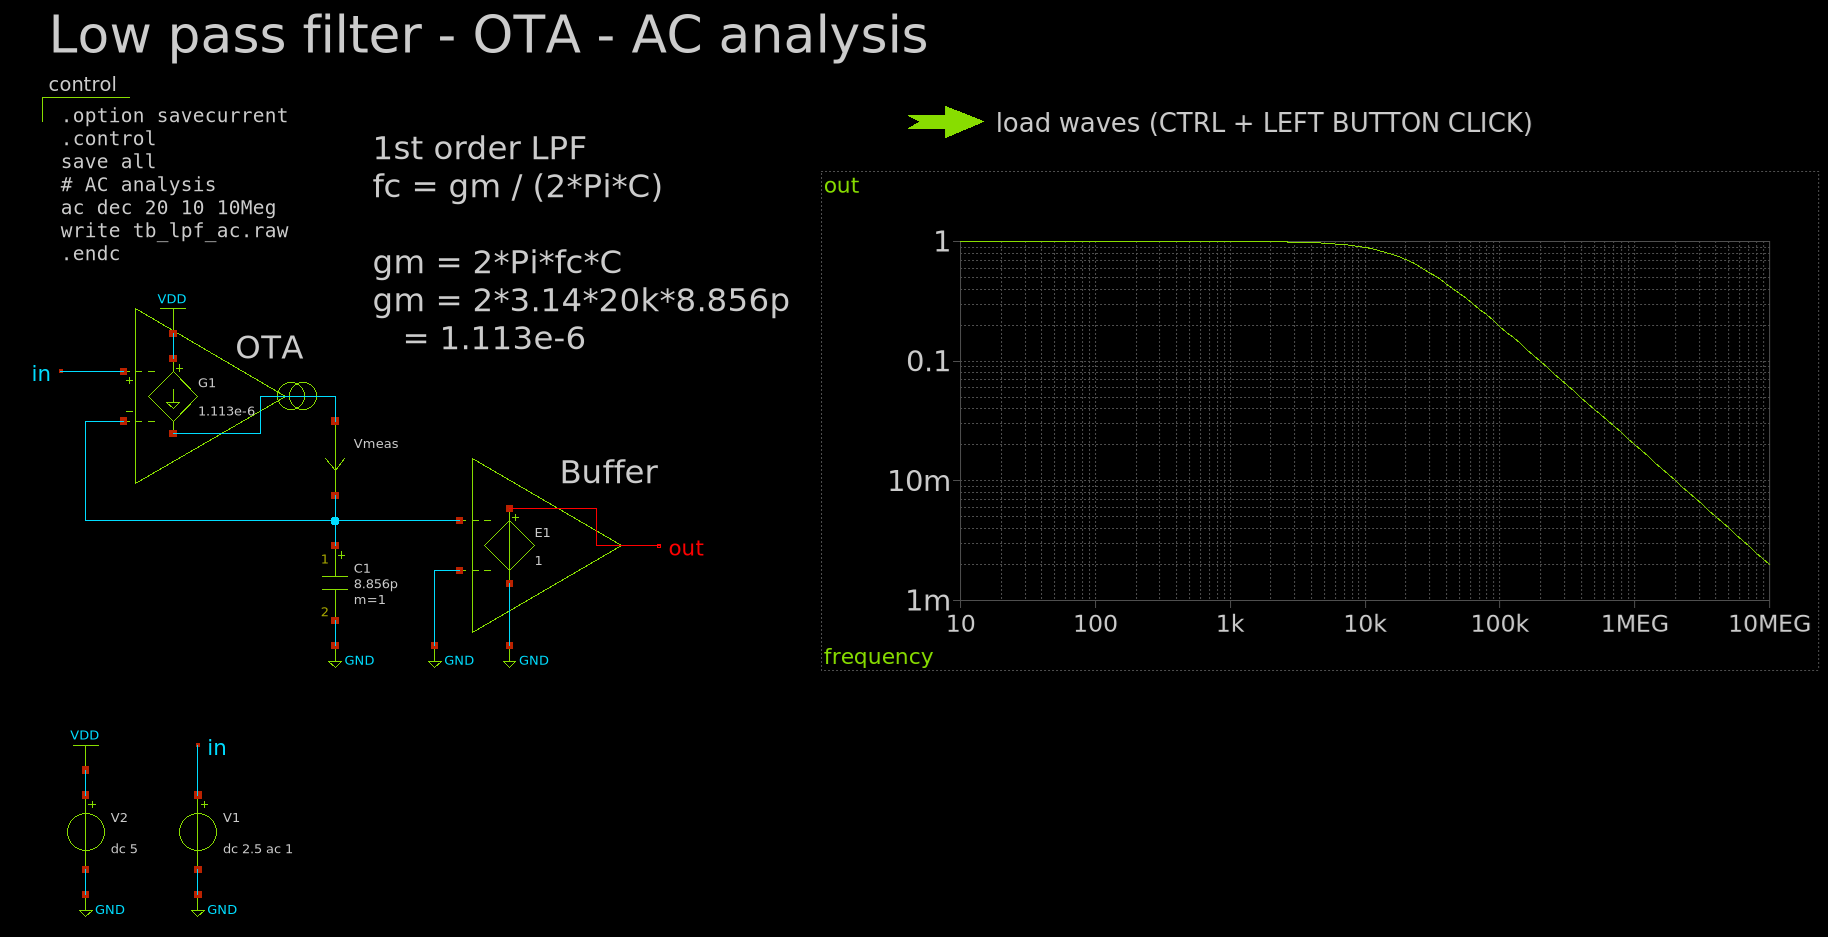
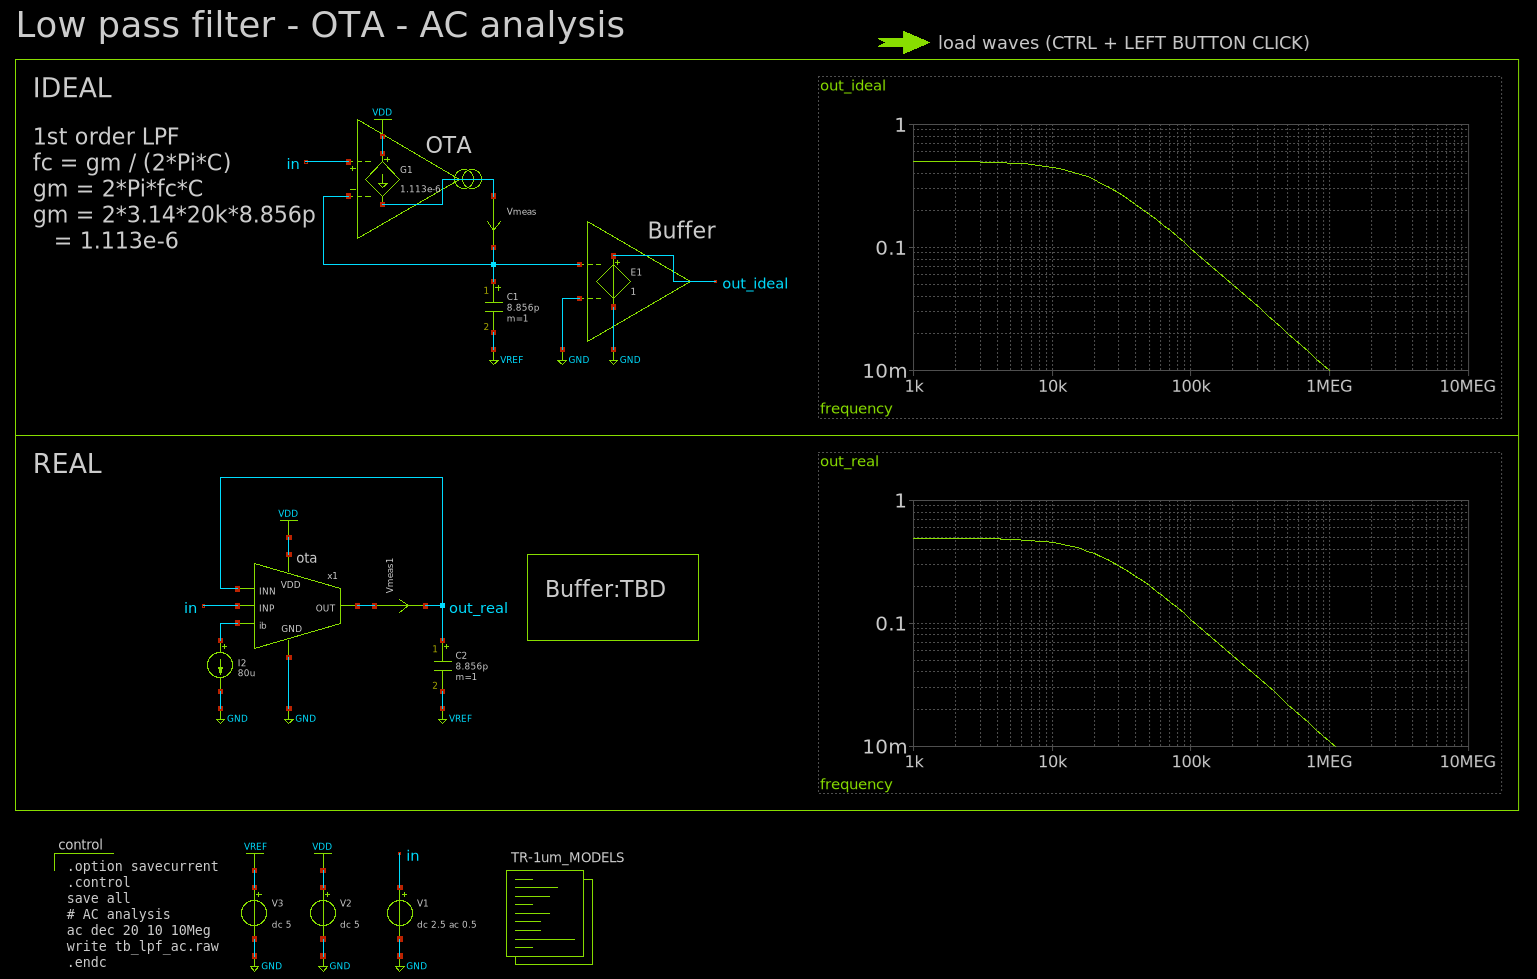
add real OTA and LPF

diff --git a/member_project/AM_Radio/Yamada3/README.md b/member_project/AM_Radio/Yamada3/README.md
@@ -48,12 +48,17 @@ OTAであれば、抵抗を使用しなくて済む。gmを少なめにするこ
 LPFを理想OTAを使用した場合の原理確認用シミュレーションを作りました。カットオフ周波数は可聴周波数の20Khzとし、コンデンサは東海理化で作成可能な単一コンデンサ最大容量8.856pFとしました。OTAは電圧→電流変換ゲインgmは1.113E-6であればよさそうです。
 OTAのゲインが達成可能か調べるためにPMOSおよびNMOSのgmを調べました。
 ゲート電圧1.5Vのとき必要なgm以上のゲインがあるのでゲインを下げることを考える必要があります。
+そのため、OTAはカレントミラーOTAとして、カレントミラーの比率を変えて、ゲインを下げます。
 
 [tb_cmos_dc.sch](xschem/tb_cmos_dc.sch)
 ![tb_cmos_dc](image/tb_cmos_dc.png)
 
+OTAの回路図を以下に示します。
+[ota.sch](xschem/ota.sch)
+![ota](image/ota.png)
 
 ### AC解析
+理想的なLPFを理想素子（電圧制御電流源）を使用して実装した場合を上(IDEAL)、実際のLPFをCMOSトランジスタを使用して実装した場合は下(REAL)に示します。
 [tb_lpf_ac.sch](xschem/tb_lpf_ac.sch)
 ![lpf_ac](image/tb_lpf_ac.png)
 
